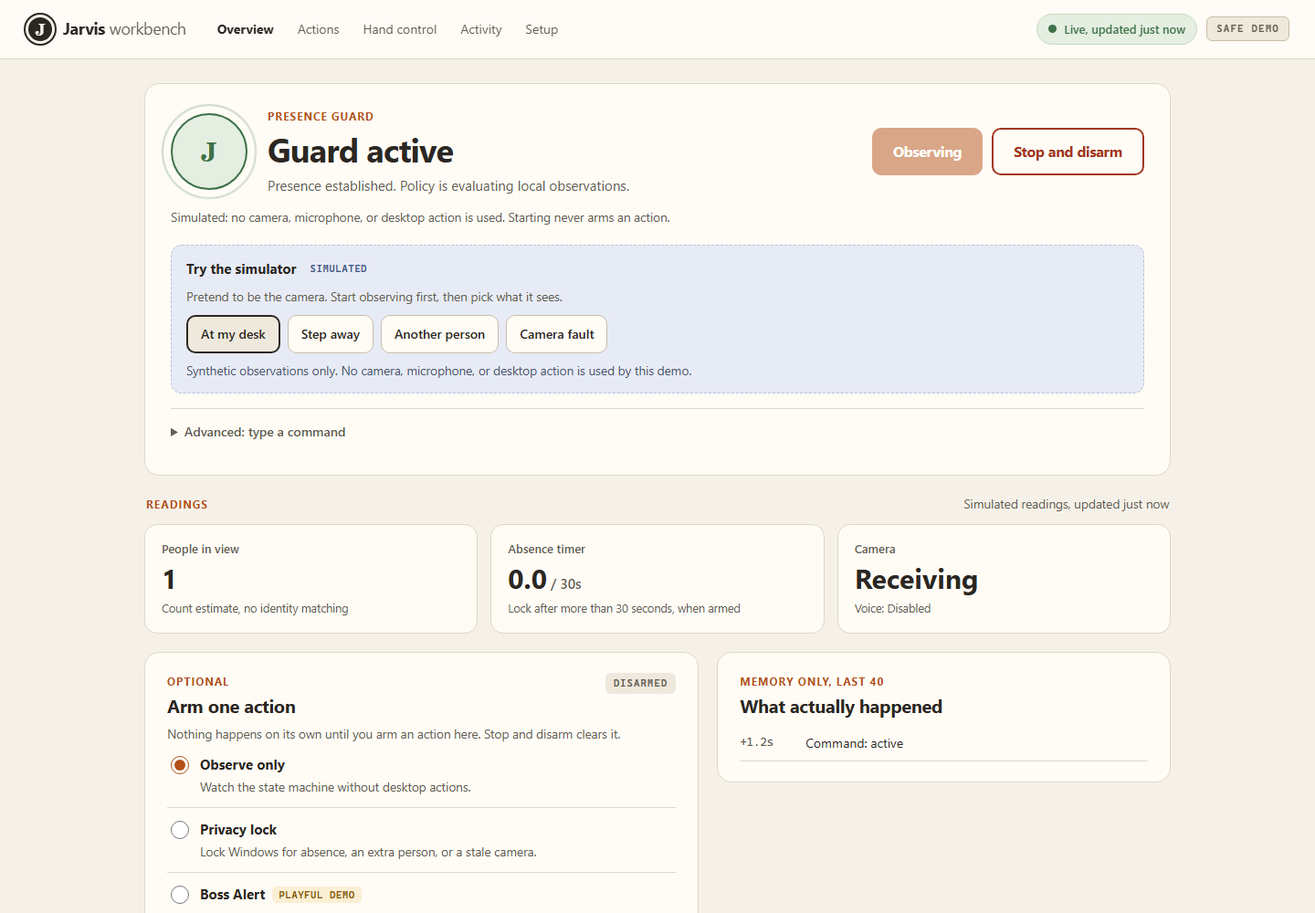
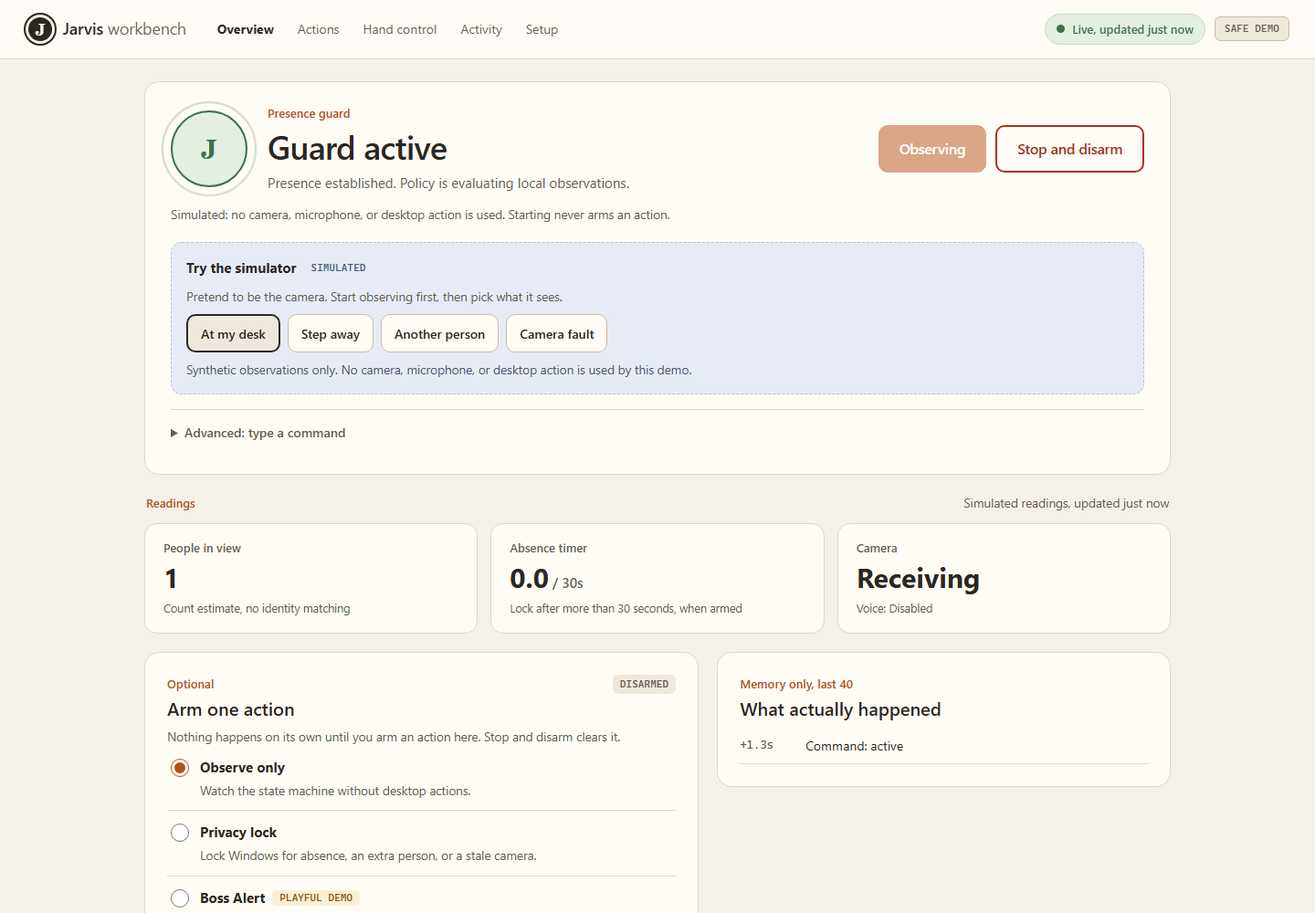
Refine interface hierarchy with product-specific Unslop guidance

diff --git a/website/site.css b/website/site.css
@@ -15,7 +15,7 @@ kbd{display:inline-grid;place-items:center;min-width:46px;height:34px;padding:0 
 .skip{position:absolute;left:20px;top:12px;transform:translateY(-200%);background:#fffcf6;border:2px solid #b4501a;border-radius:8px;padding:12px 18px;z-index:100}
 .skip:focus{transform:none}
 .nav{height:108px;display:flex;align-items:center;justify-content:space-between;gap:24px;border-bottom:1px solid var(--line)}
-.brand{display:inline-flex;align-items:center;gap:12px;font-size:20px;font-weight:760;letter-spacing:-.6px;white-space:nowrap}
+.brand{display:inline-flex;align-items:center;gap:12px;font-size:20px;font-weight:600;letter-spacing:-.4px;white-space:nowrap}
 .brand:hover{text-decoration:none}
 .brand-light{font-weight:400}
 .brand-mark{display:grid;place-items:center;width:36px;height:42px;background:var(--ink);color:var(--mint);border-radius:10px;font-family:Georgia,serif;font-size:28px;font-weight:500}
@@ -28,7 +28,7 @@ kbd{display:inline-grid;place-items:center;min-width:46px;height:34px;padding:0 
 .button.primary:hover{background:var(--green)}
 .text-link{display:inline-flex;gap:14px;align-items:center;min-height:44px;font-size:14px;font-weight:600}
 .quiet{font-size:12px;color:var(--muted);max-width:440px;line-height:1.7}
-.eyebrow{font-size:10px;font-weight:700;letter-spacing:2px;line-height:1.5;margin:0 0 20px}
+.eyebrow{font-size:14px;font-weight:500;line-height:1.5;margin:0 0 20px}
 .live-dot{display:inline-block;width:7px;height:7px;border-radius:50%;background:#b4501a;margin-right:9px;vertical-align:middle}
 .hero{display:grid;grid-template-columns:1fr 1.08fr;gap:64px;padding-block:76px 94px;align-items:center}
 .hero h1{font-size:clamp(52px,5.6vw,82px);line-height:1.02;letter-spacing:-5px;font-weight:600;margin:28px 0 28px}
@@ -39,8 +39,8 @@ kbd{display:inline-grid;place-items:center;min-width:46px;height:34px;padding:0 
 
 /* Dashboard screenshot frame */
 .workbench{background:var(--ink);border-radius:var(--radius);color:#2b2722;box-shadow:0 24px 70px #3a2a1a44;overflow:hidden;border:1px solid #e0d6c6}
-.workbench-top{display:flex;align-items:center;justify-content:space-between;gap:12px;font-size:10px;letter-spacing:1.4px;color:#655d52;padding:16px 22px;border-bottom:1px solid #2b27220b}
-.chip{font-size:9px;border:1px solid #b4501a55;border-radius:5px;color:var(--mint);padding:4px 7px}
+.workbench-top{display:flex;align-items:center;justify-content:space-between;gap:12px;font-size:13px;color:#655d52;padding:16px 24px;border-bottom:1px solid #2b27220b}
+.chip{font-size:12px;border:1px solid #b4501a55;border-radius:4px;color:var(--mint);padding:4px 8px}
 .shot{margin:0;transform:rotate(1.2deg)}
 .shot-frame{position:relative;aspect-ratio:16/10;margin:16px 16px 0;border-radius:10px;overflow:hidden;background:#f3ece1}
 .shot-frame img{display:block;width:100%;height:100%;object-fit:cover;object-position:top left;position:relative;z-index:1}
@@ -62,7 +62,7 @@ kbd{display:inline-grid;place-items:center;min-width:46px;height:34px;padding:0 
 .gesture-card figure{margin:0 0 18px;background:#efe8dc;border-radius:12px;padding:12px}
 .gesture-card svg{display:block;width:100%;height:auto}
 .step-no{font:italic 22px Georgia,serif;color:#b4501a}
-.gesture-card h3{font-size:18px;line-height:1.3;letter-spacing:-.3px;margin:4px 0 8px;font-weight:620}
+.gesture-card h3{font-size:18px;line-height:1.3;margin:4px 0 8px;font-weight:600}
 .gesture-card p{font-size:13px;line-height:1.7;color:var(--muted);margin:0}
 .stop-strip{display:grid;grid-template-columns:1fr 1fr;gap:16px;margin-top:16px}
 .stop-strip>div{display:flex;align-items:center;gap:18px;padding:18px 22px;border-radius:14px;background:var(--green);color:#fff}
@@ -100,7 +100,7 @@ kbd{display:inline-grid;place-items:center;min-width:46px;height:34px;padding:0 
 .pad-overlay{position:absolute;z-index:5;left:50%;bottom:22px;transform:translateX(-50%);width:min(92%,420px);display:grid;justify-items:center;gap:8px;text-align:center;padding:14px 18px;border-radius:12px;background:#2b2722eb;color:#fffcf6;font-size:14px;line-height:1.5;transition:opacity .2s}
 .pad-overlay strong{font-weight:600}
 .pad-stage.tracking .pad-overlay{opacity:0}
-.chip-light{font-size:9px;letter-spacing:1.4px;font-weight:700;color:var(--mint);border:1px solid #b4501a55;border-radius:5px;padding:3px 7px}
+.chip-light{font-size:11px;letter-spacing:.02em;font-weight:600;color:var(--mint);border:1px solid #b4501a55;border-radius:5px;padding:3px 7px}
 .pad-side{display:flex;flex-direction:column;gap:12px;color:#2b2722}
 .pad-progress{list-style:none;margin:0;padding:0;display:grid;grid-template-columns:repeat(4,1fr);gap:6px;counter-reset:pad}
 .pad-progress li{counter-increment:pad;font-size:11px;line-height:1.3;color:#a89a85;border-top:3px solid #2b272213;padding-top:8px}
@@ -109,7 +109,7 @@ kbd{display:inline-grid;place-items:center;min-width:46px;height:34px;padding:0 
 .pad-progress li[aria-current]{color:#2b2722;border-color:var(--mint);font-weight:700}
 .pad-hand{display:grid;justify-items:center;gap:8px;background:#efe8dc;border-radius:14px;padding:12px}
 .pad-hand svg{width:100%;max-width:200px;height:auto;display:block}
-.pad-hand-label{font-size:10px;letter-spacing:1.2px;font-weight:700;color:var(--mint);text-align:center;text-transform:uppercase}
+.pad-hand-label{font-size:11px;letter-spacing:.02em;font-weight:600;color:var(--mint);text-align:center;text-transform:uppercase}
 .pad-one,.pad-clap{transition:opacity .2s}
 .pad-hand .pad-one{opacity:.35}
 .pad-hand[data-mode="tracking"] .pad-one,.pad-hand[data-mode="looking"] .pad-one{opacity:1}
@@ -136,7 +136,7 @@ kbd{display:inline-grid;place-items:center;min-width:46px;height:34px;padding:0 
 .final-cta{border-top:1px solid var(--line);border-bottom:1px solid var(--line);padding:62px 0;text-align:center}
 .final-cta .eyebrow{margin-bottom:20px}
 .final-cta .quiet.center{margin:22px auto 0;text-align:center;max-width:520px}
-.final-cta h2{font:italic 62px/1.05 Georgia,serif;font-weight:400;letter-spacing:-2px;margin:0 0 28px}
+.final-cta h2{font:62px/1.05 Georgia,serif;font-weight:400;letter-spacing:-.03em;margin:0 0 28px}
 footer{display:flex;align-items:center;gap:34px;padding-block:40px}
 footer .brand{font-size:15px;min-height:44px}
 footer .brand-mark{width:26px;height:31px;font-size:22px;border-radius:7px}
@@ -151,7 +151,7 @@ footer>div a{display:inline-flex;align-items:center;min-height:44px}
 @media(min-width:1500px){.hero{padding-block:100px 115px}}
 @media(max-width:1180px){.gesture-steps{grid-template-columns:repeat(2,1fr)}}
 @media(max-width:1050px){.wrap{width:calc(100% - 48px)}.nav nav{gap:18px}.hero{gap:40px}.hero h1{letter-spacing:-3px;font-size:65px}.hero-actions{flex-wrap:wrap;gap:10px 20px}.pad{grid-template-columns:minmax(0,170px) 1fr;grid-template-areas:"progress progress" "stage stage" "hand guard" "buttons buttons"}.pad-side{display:contents}.pad-progress{grid-area:progress}.pad-stage{grid-area:stage;min-height:380px}.pad-hand{grid-area:hand}.pad-buttons{grid-area:buttons}.pad-guard{grid-area:guard;flex-direction:column;align-items:flex-start;justify-content:center;border-top:0;padding:0 4px}}
-@media(max-width:760px){.wrap{width:calc(100% - 40px)}.nav{height:82px}.nav .brand{font-size:17px}.nav .brand-mark{width:29px;height:35px;font-size:25px}.nav nav>a:not(.button){display:none}.button.small{padding:10px 12px;font-size:12px;gap:12px}.hero{grid-template-columns:1fr;padding-block:48px 60px;gap:36px}.hero h1{font-size:62px;letter-spacing:-3.5px;line-height:1.04;margin-block:22px}.hero .eyebrow{font-size:9px;letter-spacing:1.5px}.lead{font-size:15px;max-width:520px}.hero-actions{flex-wrap:wrap;gap:12px 22px}.hero-actions .button{font-size:13px;gap:20px;padding:12px 16px}.hero-actions .text-link{font-size:13px}.quiet{font-size:12px;max-width:340px}.shot{transform:none}.shot-frame{margin:12px 12px 0}.workbench-top{padding:14px 16px;font-size:9px}.shot figcaption{padding:14px 16px 18px}.section{padding-block:56px}.section h2{font-size:34px;letter-spacing:-1.5px}.section-heading{display:block}.section-heading .text-link,.section-heading .button,.heading-note{margin-top:16px}.gesture-steps{grid-template-columns:1fr}.stop-strip{grid-template-columns:1fr}.stop-strip>div{padding:16px 18px}.pad{padding:10px;gap:10px;border-radius:16px;grid-template-columns:minmax(0,130px) 1fr}.pad-hand{padding:8px}.pad-hand-label{font-size:9px;letter-spacing:.8px}.pad-stage{min-height:300px}.pad-targets{padding:6% 5%;gap:4%}.pad-target{width:72px;padding:8px 4px;font-size:11px}.t-icon{width:32px;height:40px}.pad-overlay{font-size:13px;bottom:12px;padding:10px 12px}.pad-progress li{font-size:10px}.pad-buttons button{font-size:12px;padding:8px 6px}.pad-status{font-size:14px;padding:12px 14px}.final-cta{padding-block:46px}.final-cta h2{font-size:52px}.final-cta .button{font-size:13px}footer{display:grid;grid-template-columns:1fr;gap:12px;padding-block:30px}footer>div{margin-left:0;font-size:12px;gap:25px}footer p{font-size:11px}.privacy{padding-block:45px}.privacy h1{font-size:43px}.privacy p{font-size:13px}}
+@media(max-width:760px){.wrap{width:calc(100% - 40px)}.nav{height:82px}.nav .brand{font-size:17px}.nav .brand-mark{width:29px;height:35px;font-size:25px}.nav nav>a:not(.button){display:none}.button.small{padding:10px 12px;font-size:12px;gap:12px}.hero{grid-template-columns:1fr;padding-block:48px 60px;gap:36px}.hero h1{font-size:62px;letter-spacing:-3.5px;line-height:1.04;margin-block:22px}.hero .eyebrow{font-size:13px}.lead{font-size:15px;max-width:520px}.hero-actions{flex-wrap:wrap;gap:12px 22px}.hero-actions .button{font-size:13px;gap:20px;padding:12px 16px}.hero-actions .text-link{font-size:13px}.quiet{font-size:12px;max-width:340px}.shot{transform:none}.shot-frame{margin:12px 12px 0}.workbench-top{padding:12px 16px;font-size:12px}.shot figcaption{padding:14px 16px 18px}.section{padding-block:56px}.section h2{font-size:34px;letter-spacing:-1.5px}.section-heading{display:block}.section-heading .text-link,.section-heading .button,.heading-note{margin-top:16px}.gesture-steps{grid-template-columns:1fr}.stop-strip{grid-template-columns:1fr}.stop-strip>div{padding:16px 18px}.pad{padding:10px;gap:10px;border-radius:16px;grid-template-columns:minmax(0,130px) 1fr}.pad-hand{padding:8px}.pad-hand-label{font-size:11px;letter-spacing:.02em}.pad-stage{min-height:300px}.pad-targets{padding:6% 5%;gap:4%}.pad-target{width:72px;padding:8px 4px;font-size:11px}.t-icon{width:32px;height:40px}.pad-overlay{font-size:13px;bottom:12px;padding:10px 12px}.pad-progress li{font-size:11px}.pad-buttons button{font-size:12px;padding:8px 6px}.pad-status{font-size:14px;padding:12px 14px}.final-cta{padding-block:46px}.final-cta h2{font-size:52px}.final-cta .button{font-size:13px}footer{display:grid;grid-template-columns:1fr;gap:12px;padding-block:30px}footer>div{margin-left:0;font-size:12px;gap:25px}footer p{font-size:11px}.privacy{padding-block:45px}.privacy h1{font-size:43px}.privacy p{font-size:13px}}
 @media(prefers-reduced-motion:reduce){html{scroll-behavior:auto}*{transition:none!important;animation:none!important}}
 
 /* Warm skin, shared with the local dashboard (web/style.css) and setup (web/setup.css):
@@ -163,9 +163,11 @@ body{background:var(--paper)}
 .button:hover{background:#efe8dc}
 .button.primary{background:var(--green);border-color:var(--green);color:var(--on-accent)}
 .button.primary:hover{background:#963f12}
-.hero h1{letter-spacing:-3px}
-.hero h1 em{color:var(--green)}
-.eyebrow,.chip,.chip-light,.pad-hand-label,.step-no{font-family:var(--mono)}
+.hero h1{letter-spacing:-.03em}
+/* The accent line stays in the display serif, upright: colour carries it, not italic. */
+.hero h1 em{color:var(--green);font-style:normal}
+.final-cta h2{font-style:normal}
+.chip,.chip-light,.pad-hand-label,.step-no{font-family:var(--mono)}
 .eyebrow{color:var(--green)}
 .live-dot{background:#3d7148}
 .workbench,.pad{background:var(--deep);border:1px solid var(--line);box-shadow:0 24px 60px -30px #3a2a1a55}

diff --git a/web/style.css b/web/style.css
@@ -22,7 +22,7 @@ code { font-family:var(--mono); font-size:.92em; background:var(--sunk); padding
 
 /* Top bar: identity, sections, and the always-visible connection state. */
 .topbar { position:sticky; top:0; z-index:10; display:flex; align-items:center; gap:22px; padding:12px 28px; background:color-mix(in srgb,var(--panel) 92%,transparent); border-bottom:1px solid var(--line); backdrop-filter:blur(6px); }
-.brand { display:inline-flex; align-items:center; gap:9px; text-decoration:none; font-size:18px; font-weight:750; letter-spacing:-.4px; white-space:nowrap; }
+.brand { display:inline-flex; align-items:center; gap:9px; text-decoration:none; font-size:18px; font-weight:600; letter-spacing:-.2px; white-space:nowrap; }
 .brand-light { font-weight:400; color:var(--muted); margin-left:-4px; }
 .mark { display:grid; place-items:center; width:32px; height:32px; border-radius:50%; background:var(--ink); color:var(--paper); font:600 18px Georgia,serif; box-shadow:inset 0 0 0 3px var(--paper),0 0 0 2px var(--ink); }
 .sections { display:flex; gap:2px; overflow-x:auto; }
@@ -39,24 +39,24 @@ code { font-family:var(--mono); font-size:.92em; background:var(--sunk); padding
 .connection[data-state="lost"] { color:var(--bad); border-color:#efc3b6; background:var(--bad-wash); }
 .connection[data-state="lost"] .dot { background:transparent; border:2px solid var(--bad); }
 .connection[data-state="ended"] .dot { background:transparent; border:2px solid var(--muted); }
-.badge { font:700 11px var(--mono); letter-spacing:1.2px; padding:6px 10px; border-radius:6px; border:1px solid var(--line-2); color:var(--muted); background:var(--sunk); white-space:nowrap; }
+.badge { font:600 11px var(--mono); letter-spacing:.02em; padding:6px 10px; border-radius:6px; border:1px solid var(--line-2); color:var(--muted); background:var(--sunk); white-space:nowrap; }
 
-main { max-width:1180px; margin:0 auto; padding:26px 28px 40px; display:grid; gap:20px; }
-.card { background:var(--panel); border:1px solid var(--line); border-radius:16px; padding:22px 24px; min-width:0; }
-.eyebrow { margin:0 0 4px; font-size:12px; font-weight:700; letter-spacing:.08em; text-transform:uppercase; color:var(--accent); }
-h2 { font-size:20px; letter-spacing:-.3px; margin:0; line-height:1.25; }
+main { max-width:1180px; margin:0 auto; padding:24px 28px 40px; display:grid; gap:20px; }
+.card { background:var(--panel); border:1px solid var(--line); border-radius:16px; padding:24px; min-width:0; }
+.eyebrow { margin:0 0 4px; font-size:13px; font-weight:500; color:var(--accent); }
+h2 { font-size:20px; font-weight:600; margin:0; line-height:1.25; }
 h3 { font-size:15px; margin:0 0 4px; display:flex; align-items:center; gap:8px; flex-wrap:wrap; }
 .hint, .help { color:var(--muted); font-size:13.5px; margin:8px 0 0; }
-.tag { font:700 10.5px var(--mono); letter-spacing:.8px; padding:3px 7px; border-radius:5px; white-space:nowrap; }
+.tag { font:600 11px var(--mono); letter-spacing:.02em; padding:2px 8px; border-radius:4px; white-space:nowrap; }
 .tag.sim { color:var(--sim); background:var(--sim-wash); }
 .tag.playful { color:var(--warn); background:var(--warn-wash); }
 
 /* Presence: the one thing to read first, with the two fixed controls beside it. */
-.presence { display:grid; grid-template-columns:minmax(0,1fr) auto; gap:4px 28px; align-items:center; padding:26px 28px; }
+.presence { display:grid; grid-template-columns:minmax(0,1fr) auto; gap:4px 28px; align-items:center; padding:24px 28px; }
 .presence:focus { outline:none; }
 .presence-head { display:flex; align-items:center; gap:22px; min-width:0; }
 .presence-copy { min-width:0; }
-#state { font-size:clamp(26px,3.2vw,36px); letter-spacing:-.8px; }
+#state { font-size:clamp(26px,3.2vw,36px); font-weight:600; letter-spacing:-.02em; }
 #state-note { margin:6px 0 0; color:var(--muted); max-width:620px; }
 .controls { display:flex; gap:10px; flex-wrap:wrap; justify-content:flex-end; }
 .presence > .hint, .presence > .stop-status, .presence > .error, .presence > .simulator, .presence > .advanced { grid-column:1 / -1; }
@@ -70,7 +70,7 @@ main[data-connection="delayed"] .orb, main[data-connection="lost"] .orb, main[da
 main[data-connection="delayed"] .orb::after, main[data-connection="lost"] .orb::after, main[data-connection="ended"] .orb::after { animation:none; border:2px dashed var(--line-2); opacity:1; }
 main[data-connection="lost"] #state { color:var(--bad); }
 
-button { cursor:pointer; border-radius:10px; min-height:44px; padding:10px 16px; font-weight:650; border:1px solid var(--line-2); background:var(--panel); color:var(--ink); }
+button { cursor:pointer; border-radius:10px; min-height:44px; padding:10px 16px; font-weight:600; border:1px solid var(--line-2); background:var(--panel); color:var(--ink); }
 button:hover:enabled { background:var(--sunk); }
 button:disabled { cursor:not-allowed; opacity:.5; }
 button.big { min-height:52px; padding:12px 22px; font-size:15.5px; }
@@ -83,7 +83,7 @@ button.big { min-height:52px; padding:12px 22px; font-size:15.5px; }
 .stop-status[data-kind="ok"] { background:var(--live-wash); color:#2f5a38; }
 .stop-status[data-kind="bad"] { background:var(--bad-wash); color:#86301c; font-weight:600; }
 .error { margin:12px 0 0; padding:10px 14px; border-radius:10px; background:var(--bad-wash); color:#86301c; font-size:14px; border-left:4px solid var(--bad); }
-.simulator { margin-top:16px; padding:14px 16px; border-radius:12px; background:var(--sim-wash); border:1px dashed #b7c1dc; }
+.simulator { margin-top:16px; padding:16px; border-radius:12px; background:var(--sim-wash); border:1px dashed #b7c1dc; }
 .simulator .help { color:#4c5671; }
 .demo-buttons { display:flex; flex-wrap:wrap; gap:8px; margin-top:10px; }
 .choice { min-height:42px; padding:8px 14px; font-weight:600; font-size:14px; background:var(--panel); }
@@ -100,7 +100,7 @@ button.big { min-height:52px; padding:12px 22px; font-size:15.5px; }
 main[data-connection="delayed"] .readings-note { color:var(--warn); font-weight:600; }
 main[data-connection="lost"] .readings-note { color:var(--bad); font-weight:600; }
 .metrics { display:grid; grid-template-columns:repeat(3,minmax(0,1fr)); gap:14px; }
-.metrics article { background:var(--panel); border:1px solid var(--line); border-radius:14px; padding:16px 18px; min-width:0; }
+.metrics article { background:var(--panel); border:1px solid var(--line); border-radius:14px; padding:16px 20px; min-width:0; }
 .metrics p { margin:0; font-size:13px; color:var(--muted); font-weight:600; }
 .metrics strong { display:block; font-size:30px; line-height:1.25; margin:4px 0 2px; font-variant-numeric:tabular-nums; }
 .metrics em { font-style:normal; font-size:15px; color:var(--muted); font-weight:500; }
@@ -110,7 +110,7 @@ main[data-connection="lost"] .metrics article, main[data-connection="ended"] .me
 
 .columns { display:grid; grid-template-columns:minmax(0,1.1fr) minmax(0,.9fr); gap:20px; align-items:start; }
 .section-title { display:flex; justify-content:space-between; align-items:flex-start; gap:12px; margin-bottom:6px; }
-.mini { font:700 11px var(--mono); letter-spacing:1px; padding:5px 9px; border-radius:6px; background:var(--sunk); color:var(--muted); max-width:55%; overflow-wrap:anywhere; text-align:right; }
+.mini { font:600 11px var(--mono); letter-spacing:.02em; padding:4px 8px; border-radius:6px; background:var(--sunk); color:var(--muted); max-width:55%; overflow-wrap:anywhere; text-align:right; }
 .action-option { display:flex; gap:12px; align-items:flex-start; padding:12px 4px; border-bottom:1px solid var(--line); cursor:pointer; }
 .action-option input { width:20px; height:20px; margin:2px 0 0; accent-color:var(--accent); flex:none; }
 .action-option p { margin:2px 0 0; color:var(--muted); font-size:13.5px; }
@@ -151,7 +151,7 @@ main[data-connection="lost"] .metrics article, main[data-connection="ended"] .me
   .orb { width:60px; height:60px; font-size:22px; }
   .presence-head { gap:16px; }
   .metrics { grid-template-columns:repeat(3,minmax(0,1fr)); gap:8px; }
-  .metrics article { padding:12px 10px; }
+  .metrics article { padding:12px; }
   .metrics strong { font-size:22px; }
   .metrics small { display:none; }
   .metrics p { font-size:12px; line-height:1.3; }

diff --git a/website/index.html b/website/index.html
@@ -68,11 +68,11 @@
   <header class="nav wrap"><a class="brand" href="index.html" aria-label="Jarvis Workbench home"><span class="brand-mark">J</span><span>jarvis<span class="brand-light">workbench</span></span></a><nav aria-label="Main"><a href="#hands">Hand guide</a><a href="#practice">Practice</a><a class="button small primary" href="setup.html">Set up Jarvis</a></nav></header>
   <main id="main">
     <section class="hero wrap">
-      <div class="hero-copy"><div class="eyebrow"><span class="live-dot"></span> A LOCAL DESKTOP WORKBENCH FOR WINDOWS</div><h1>Your hands.<br>Your desk.<br><em>Your Jarvis.</em></h1><p class="lead">Practice the hand moves here. Setup asks one short question at a time about your purpose, budget and tools, then gives you one recommended setup.</p><div class="hero-actions"><a class="button primary" href="setup.html">Set up Jarvis <span aria-hidden="true">&rarr;</span></a><a class="text-link" href="#practice">Practice the hand moves <span aria-hidden="true">&darr;</span></a></div><p class="quiet">Jarvis runs on a Windows computer. A phone can plan and practice, but cannot install Jarvis or control a computer. Camera, mouse control and Windows lock stay off until you switch them on.</p></div>
-      <figure class="workbench shot" id="dashboard-shot"><div class="workbench-top"><span><span class="live-dot"></span> JARVIS / DASHBOARD</span><span class="chip">ON YOUR COMPUTER</span></div><div class="shot-frame"><img id="dashboard-img" src="dashboard-preview.png" width="1440" height="1000" alt="Screenshot of the Jarvis dashboard in its safe demo, with simulated readings and the Start observing and Stop controls." decoding="async"><div class="shot-missing" aria-hidden="true"><span class="brand-mark">J</span><span>Dashboard preview</span></div></div><figcaption>Shown: the safe demo with simulated readings. On your own computer every device stays off until you switch it on there.</figcaption></figure>
+      <div class="hero-copy"><div class="eyebrow"><span class="live-dot"></span> A local desktop workbench for Windows</div><h1>Your hands.<br>Your desk.<br><em>Your Jarvis.</em></h1><p class="lead">Practice the hand moves here. Setup asks one short question at a time about your purpose, budget and tools, then gives you one recommended setup.</p><div class="hero-actions"><a class="button primary" href="setup.html">Set up Jarvis <span aria-hidden="true">&rarr;</span></a><a class="text-link" href="#practice">Practice the hand moves <span aria-hidden="true">&darr;</span></a></div><p class="quiet">Jarvis runs on a Windows computer. A phone can plan and practice, but cannot install Jarvis or control a computer. Camera, mouse control and Windows lock stay off until you switch them on.</p></div>
+      <figure class="workbench shot" id="dashboard-shot"><div class="workbench-top"><span><span class="live-dot"></span> Jarvis dashboard</span><span class="chip">On your computer</span></div><div class="shot-frame"><img id="dashboard-img" src="dashboard-preview.png" width="1440" height="1000" alt="Screenshot of the Jarvis dashboard in its safe demo, with simulated readings and the Start observing and Stop controls." decoding="async"><div class="shot-missing" aria-hidden="true"><span class="brand-mark">J</span><span>Dashboard preview</span></div></div><figcaption>Shown: the safe demo with simulated readings. On your own computer every device stays off until you switch it on there.</figcaption></figure>
     </section>
     <section class="hands section wrap" id="hands" aria-labelledby="hands-title">
-      <div class="section-heading"><div><p class="eyebrow">HAND CONTROL IN FOUR MOVES</p><h2 id="hands-title">Say it. Show it.<br>Point. Clap to stop.</h2></div><p class="heading-note">This is the whole vocabulary. You can learn it in a minute and practice it below without a camera.</p></div>
+      <div class="section-heading"><div><p class="eyebrow">Hand control in four moves</p><h2 id="hands-title">Say it. Show it.<br>Point. Clap to stop.</h2></div><p class="heading-note">This is the whole vocabulary. You can learn it in a minute and practice it below without a camera.</p></div>
       <ol class="gesture-steps">
         <li class="gesture-card">
           <figure>
@@ -133,7 +133,7 @@
 
     <section class="practice section" id="practice" aria-labelledby="practice-title">
       <div class="wrap">
-        <div class="section-heading"><div><p class="eyebrow">PRACTICE PAD</p><h2 id="practice-title">Try the moves here.<br>Nothing real moves.</h2></div><p class="heading-note">This pad runs inside this page only. It never asks for your camera, and it cannot move your real cursor. Your mouse, finger, or arrow keys stand in for your index finger.</p></div>
+        <div class="section-heading"><div><p class="eyebrow">Practice pad</p><h2 id="practice-title">Try the moves here.<br>Nothing real moves.</h2></div><p class="heading-note">This pad runs inside this page only. It never asks for your camera, and it cannot move your real cursor. Your mouse, finger, or arrow keys stand in for your index finger.</p></div>
         <div class="pad">
           <div class="pad-stage" id="pad-stage" tabindex="0" aria-label="Practice area. After the open hand step, drag inside here or use the arrow keys to steer the practice pointer." aria-describedby="pad-status">
             <div class="pad-window" aria-hidden="true">
@@ -170,6 +170,6 @@
         <p class="pad-status" id="pad-status" role="status" aria-live="polite">Press “Say watch me” to begin. The practice pad does not use a camera or microphone.</p>
       </div>
     </section>
-    <section class="final-cta wrap"><p class="eyebrow">READY WHEN YOU ARE</p><h2>One question at a time.<br>One clear plan.</h2><a class="button primary" href="setup.html">Set up Jarvis <span aria-hidden="true">&rarr;</span></a><p class="quiet center">This website never asks for an API key. Keys are entered only on the setup page that Jarvis opens on your own computer.</p></section>
+    <section class="final-cta wrap"><p class="eyebrow">Ready when you are</p><h2>One question at a time.<br>One clear plan.</h2><a class="button primary" href="setup.html">Set up Jarvis <span aria-hidden="true">&rarr;</span></a><p class="quiet center">This website never asks for an API key. Keys are entered only on the setup page that Jarvis opens on your own computer.</p></section>
   </main><footer class="wrap"><a class="brand" href="index.html"><span class="brand-mark">J</span><span>jarvis<span class="brand-light">workbench</span></span></a><p>An independent experimental desktop project.</p><div><a href="https://github.com/Jgolding1998/Jgolding1998/issues/new?template=feedback.yml" target="_blank" rel="noopener noreferrer">Feedback</a><a href="https://github.com/Jgolding1998/jarvis-workbench/blob/main/docs/INSTALL_WITH_AGENT.md" target="_blank" rel="noopener noreferrer">Install with an AI agent</a><a href="privacy.html">Privacy</a><a href="https://github.com/Jgolding1998/jarvis-workbench" target="_blank" rel="noopener noreferrer">Source</a></div></footer>
 </body></html>

diff --git a/web/setup.css b/web/setup.css
@@ -33,10 +33,10 @@ body { margin:0; min-height:100vh; background:var(--bg); }
 a { color:var(--cyan); }
 .shell { max-width:640px; margin:0 auto; padding:18px 18px 28px; }
 .top { display:flex; justify-content:space-between; align-items:center; gap:16px; margin-bottom:22px; }
-.brand { display:inline-flex; align-items:center; gap:10px; font:750 18px/1 "Segoe UI",system-ui,sans-serif; letter-spacing:-.3px; color:var(--text); }
+.brand { display:inline-flex; align-items:center; gap:10px; font:600 18px/1 "Segoe UI",system-ui,sans-serif; letter-spacing:-.2px; color:var(--text); }
 .brand .light { color:var(--muted); font-weight:400; }
 .mark { width:30px; height:30px; color:var(--text); }
-.badge { border:1px solid var(--line-2); border-radius:6px; color:var(--muted); background:var(--sunk); padding:5px 10px; font:700 11px var(--mono); letter-spacing:2px; white-space:nowrap; }
+.badge { border:1px solid var(--line-2); border-radius:6px; color:var(--muted); background:var(--sunk); padding:5px 10px; font:600 11px var(--mono); letter-spacing:.02em; white-space:nowrap; }
 main { outline:none; }
 .card { position:relative; background:var(--panel); border:1px solid var(--line); border-radius:16px; padding:26px; box-shadow:0 10px 30px -22px #3a2a1a55; }
 .card::before { content:none; }
@@ -44,8 +44,8 @@ h1 { font-size:clamp(24px,5vw,30px); font-weight:700; letter-spacing:-.5px; line
 h1 label { font:inherit; }
 h1:focus { outline:none; }
 h1:focus-visible { outline:2px dashed var(--line-2); outline-offset:4px; }
-h2 { font-size:12.5px; font-weight:700; letter-spacing:.08em; text-transform:uppercase; color:var(--muted); margin:22px 0 10px; }
-.eyebrow { font-size:12px; font-weight:700; letter-spacing:.08em; text-transform:uppercase; color:var(--cyan); margin:0 0 8px; }
+h2 { font-size:14px; font-weight:600; color:var(--muted); margin:24px 0 8px; }
+.eyebrow { font-size:13px; font-weight:500; color:var(--cyan); margin:0 0 8px; }
 .progress { display:grid; gap:6px; margin-bottom:18px; }
 .progress-text { margin:0; font:600 13px var(--mono); letter-spacing:1px; color:var(--muted); }
 .progress-bar { height:6px; border-radius:3px; background:var(--sunk); overflow:hidden; }
@@ -81,7 +81,7 @@ input[type=range]:focus-visible { outline:2px solid var(--amber); outline-offset
 .stack { list-style:none; padding:0; margin:0; display:grid; gap:0; border:1px solid var(--line); border-radius:12px; background:var(--panel); }
 .stack li { display:grid; grid-template-columns:110px minmax(0,1fr) auto; gap:10px; align-items:center; padding:9px 12px; border-top:1px solid var(--line); font-size:15px; }
 .stack li:first-child { border-top:0; }
-.stack .part { font-size:12px; font-weight:700; letter-spacing:.06em; color:var(--muted); text-transform:uppercase; }
+.stack .part { font-size:13px; font-weight:500; color:var(--muted); }
 .stack .name { display:flex; gap:10px; flex-wrap:wrap; align-items:baseline; min-width:0; overflow-wrap:anywhere; }
 .stack .guide { font-size:13px; }
 .stack .tag { font:700 11px var(--mono); letter-spacing:.5px; padding:3px 8px; border-radius:5px; border:1px solid #c6dabf; background:var(--live-wash); color:var(--live); white-space:nowrap; }
@@ -106,7 +106,7 @@ input[type=range]:focus-visible { outline:2px solid var(--amber); outline-offset
 .meter-row { display:flex; justify-content:space-between; gap:10px; font-size:13px; font-weight:600; flex-wrap:wrap; }
 .mono { font-family:var(--mono); color:var(--muted); font-weight:400; }
 meter { width:100%; height:8px; }
-.button { font:inherit; font-size:15px; font-weight:650; cursor:pointer; border-radius:10px; padding:11px 18px; min-height:48px; text-decoration:none; display:inline-flex; align-items:center; justify-content:center; text-align:center; border:1px solid var(--line-2); background:var(--panel); color:var(--text); transition:background .15s ease; }
+.button { font:inherit; font-size:15px; font-weight:600; cursor:pointer; border-radius:10px; padding:11px 18px; min-height:48px; text-decoration:none; display:inline-flex; align-items:center; justify-content:center; text-align:center; border:1px solid var(--line-2); background:var(--panel); color:var(--text); transition:background .15s ease; }
 .button:hover { background:var(--sunk); }
 .button.primary { background:var(--cyan); border-color:var(--cyan); color:var(--cyan-ink); }
 .button.primary:hover { background:var(--cyan-2); }

diff --git a/web/setup.html b/web/setup.html
@@ -18,7 +18,7 @@
   <header class="top">
     <span class="brand">
       <svg class="mark" viewBox="0 0 40 40" aria-hidden="true" focusable="false"><circle cx="20" cy="20" r="17" fill="none" stroke="currentColor" stroke-width="1.5" stroke-dasharray="3 3"/><circle cx="20" cy="20" r="11" fill="none" stroke="currentColor" stroke-width="2"/><circle cx="20" cy="20" r="4.5" fill="currentColor"/></svg>
-      <span>JARVIS<span class="light"> SETUP</span></span>
+      <span>Jarvis<span class="light"> setup</span></span>
     </span>
     <span id="mode-badge" class="badge">LOADING</span>
   </header>
@@ -83,7 +83,7 @@
     </form>
 
     <section id="result" class="card result" aria-labelledby="plan-title" hidden>
-      <p class="eyebrow">YOUR RECOMMENDED SETUP</p>
+      <p class="eyebrow">Your recommended setup</p>
       <h1 id="plan-title" tabindex="-1"></h1>
       <p id="plan-summary" class="summary"></p>
       <ul id="plan-stack" class="stack" aria-label="What this setup uses"></ul>

diff --git a/README.md b/README.md
@@ -136,6 +136,10 @@ If the camera cannot open or its reader fails, restart the process after resolvi
 
 ## References
 
+Interface refinement used [Unslop](https://github.com/heydamir/unslop) by Damir
+Sokolovsky, licensed under CC BY 4.0, while retaining Jarvis's own interaction
+and safety design.
+
 The implementation uses documented interfaces from [OpenCV](https://docs.opencv.org/4.x/d5/d33/structcv_1_1HOGDescriptor.html), [Vosk](https://alphacephei.com/vosk/install), and Microsoft's [LockWorkStation](https://learn.microsoft.com/en-us/windows/win32/api/winuser/nf-winuser-lockworkstation) and [GetAsyncKeyState](https://learn.microsoft.com/en-us/windows/win32/api/winuser/nf-winuser-getasynckeystate) APIs. The Windows package includes third-party dependencies and the official hand model with their license notices. No account credentials are included. This project's own code uses the [MIT License](LICENSE).
 
 ## Feedback
